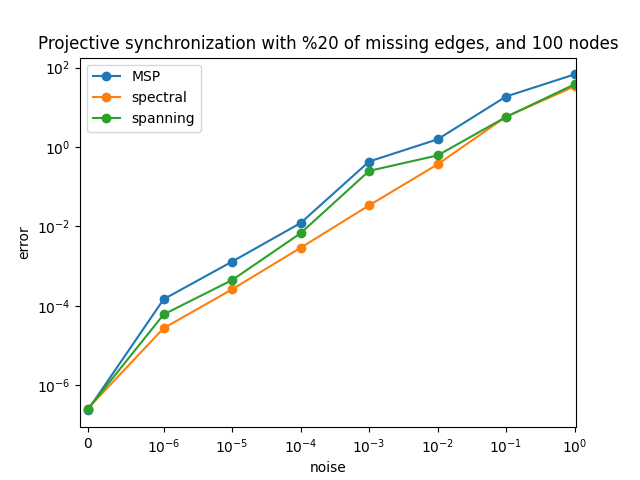
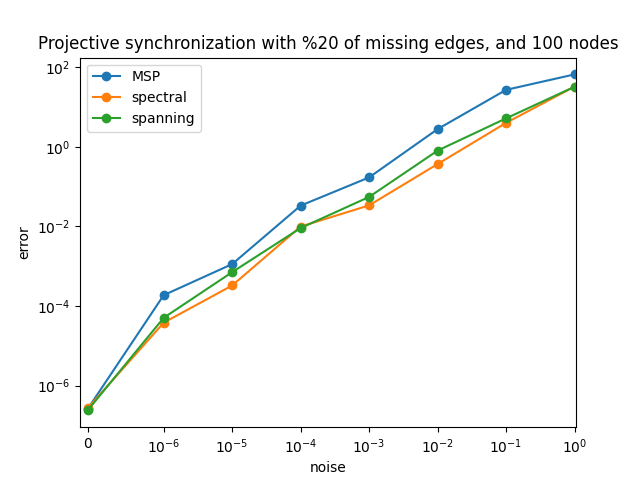
Updated tests, documented functions

Changed region(s): [[0.1562, 0.1562, 0.9062, 0.8125], [0.125, 0.8125, 0.1562, 0.875]]

diff --git a/synchronization/utils.py b/synchronization/utils.py
@@ -2,6 +2,15 @@ import numpy as np
 
 
 def scale_matrices(X: np.ndarray, d: int, ref: int):
+    """
+    Scale each matrices of the input block matrix by multiplying each of them by the inverse
+    of the matrix X[d*ref: d*(ref + 1), :]
+    :param X: the nd x d block matrix to be scaled, where the i-th block is the matrix X[d*i: d*(i + 1), :]
+    :param d: the dimension of matrices
+    :param ref: the index of the reference matrix
+    :return: the scaled block matrix
+    """
+
     ref_matrix_inv = np.linalg.inv(X[d*ref: d*(ref + 1), :])
     X_scaled = np.zeros(X.shape, dtype=X.dtype)
     n = int(X.shape[0] / d)
@@ -11,17 +20,34 @@ def scale_matrices(X: np.ndarray, d: int, ref: int):
 
 
 def normalize_matrices(X: np.ndarray):
+    """
+    Normalize each matrix of the input nd x d block matrix by dividing each block matrix w.r.t the sum of the elements
+    and, then, w.r.t. the norm of the vectorized form of the matrix
+    :param X: the block matrix to be normalized
+    :return: the normalized block matrix
+    """
+
     X_normalized = np.zeros(X.shape, dtype=X.dtype)
     d = X.shape[1]
     n = int(X.shape[0] / d)
     for i in range(n):
         x_vec = X[d*i: d*(i + 1), :].reshape((d ** 2, 1))
-        norm_factor = np.linalg.norm(x_vec) + x_vec.sum()
-        X_normalized[d*i: d*(i + 1), :] = X[d*i: d*(i + 1), :] / norm_factor
+        x_vec_sum = x_vec.sum()
+        X_normalized[d*i: d*(i + 1), :] = X[d*i: d*(i + 1), :] / x_vec_sum
+        norm = np.linalg.norm(x_vec / x_vec_sum)
+        X_normalized[d * i: d * (i + 1), :] = X[d * i: d * (i + 1), :] / norm
     return X_normalized
 
 
 def calculate_matrix_angle(X1: np.ndarray, X2: np.ndarray, d: int):
+    """
+    Calculates the angle between the vectorized form of the two input matrices
+    :param X1: a d x d matrix
+    :param X2: a d x d matrix
+    :param d: the dimension of the matrices
+    :return: the angle between the two matrices
+    """
+
     x1 = X1.reshape((d ** 2, 1))
     x2 = X2.reshape((d ** 2, 1))
     x1 = np.real(x1)
@@ -37,10 +63,27 @@ def calculate_matrix_angle(X1: np.ndarray, X2: np.ndarray, d: int):
 
 
 def calculate_matrix_distance(X1: np.ndarray, X2: np.ndarray, d: int):
+    """
+    Calculates the distance in terms of norm between the two input matrices
+    :param X1: a d x d matrix
+    :param X2: a d x d matrix
+    :param d: the dimension of the matrices
+    :return: the distance between the two matrices
+    """
+
     return np.linalg.norm(X1 - X2)
 
 
 def get_error(U: np.ndarray, X: np.ndarray, d: int, distance_type='angle'):
+    """
+    Calculates the distance, in terms of norm or angle, between the two input nd x d block matrices
+    :param U: a nd x d block matrix
+    :param X: a nd x d block matrix
+    :param d: the dimension of the blocks of the matrix
+    :param distance_type: the type of distance that will be used (angle or norm)
+    :return: the mean distance between the blocks of the two matrices
+    """
+
     n = int(U.shape[0] / d)
     err = 0
     distance_func = calculate_matrix_angle if distance_type == 'angle' else calculate_matrix_distance

diff --git a/synchronization/multi_source_propagation.py b/synchronization/multi_source_propagation.py
@@ -4,6 +4,14 @@ from synchronization.spanning_tree_synchronization import spanning_tree_sync
 
 
 def multi_source_propagation(Z: np.ndarray, A: np.ndarray):
+    """
+    Computes the solution to the projective synchronization problem using the Multi-Source Propagation
+    method, that averages the solution of the spanning tree approach from multiple reference nodes
+    :param Z: the 4n x 4n matrix containing the pairwise projective transformations between the nodes
+    :param A: the adjacency matrix of the graph
+    :return: the solution to the synchronization problem, contained in a 4n x d matrix,
+        and the maximum degree node used as reference node
+    """
     node_degrees = A.sum(axis=1)
     n = A.shape[0]
     d = int(Z.shape[0] / n)
@@ -12,6 +20,8 @@ def multi_source_propagation(Z: np.ndarray, A: np.ndarray):
     max_degree_node = roots[-1]
     solutions = np.empty([0, n * d, d])
     for root in roots:
+        # scale the spanning tree solution w.r.t the node with the highest degree
         sol = utils.scale_matrices(spanning_tree_sync(Z, A, root), d, max_degree_node)
+        # utils.normalize divide each matrix by the sum of the elements first and then by the norm
         solutions = np.concatenate([solutions, [utils.normalize_matrices(sol)]])
     return solutions.sum(axis=0) / 10, max_degree_node

diff --git a/synchronization/homography_synchronization.py b/synchronization/homography_synchronization.py
@@ -3,16 +3,24 @@ from synchronization import utils
 
 
 def homography_synch(Z: np.array, A: np.array) -> (np.ndarray, int):
+    """
+    Performs homography synchronization on the given data
+    :param Z: the 3n x 3n matrix containing the pairwise measurements
+    :param A: the adjacency matrix of the graph
+    :return: the solution of the problem, contained in a 3n x d matrix,
+        and the reference node (the node with the highest degree)
+    """
     n = A.shape[0]
 
-    iD = np.diag(1 / A.sum(axis=1))
+    iD = np.diag(1 / A.sum(axis=1))  # inverse of the degree matrix
     w, v = np.linalg.eig(np.kron(iD, np.eye(3)) @ Z)
     Q = v[:, np.argsort(w)[-3:]]  # top-3 eigenvectors
-    root = np.argmax(A.sum(axis=1))
+    root = np.argmax(A.sum(axis=1))  # the reference node is the one with the maximum degree
     Q = np.real(utils.scale_matrices(Q, 3, root))
 
     H = np.empty([0, 3])
     for i in range(n):
+        # make the determinant of the matrices equal to one
         det_qi = np.linalg.det(Q[3*i:3*(i+1), :])
         Q_i = Q[3*i:3*(i+1), :] / (np.sign(det_qi) * np.power(np.abs(det_qi), 1/3))
         H = np.concatenate([H, Q_i], axis=0)

diff --git a/synchronization/projective_synchronization_spectral.py b/synchronization/projective_synchronization_spectral.py
@@ -3,6 +3,17 @@ from synchronization import utils
 
 
 def projective_synch(Z: np.array, A: np.array, remove_imag=False, root=None):
+    """
+    Solves the projective synchronization problem using the spectral solution (extended to complex
+    numbers) approach
+    :param Z: the 4n x 4n matrix containing the pairwise projective transformations between the nodes
+    :param A: the adjacency matrix of the graph
+    :param remove_imag: if true the imaginary values are removed before scaling, otherwise a complex solution
+        is returned by the function
+    :param root: the reference node for the final scaling, if this is None, the node with the highest degree will
+        be computed and used as a reference
+    :return: the solution to the synchronization problem, contained in a 4n x d matrix, together with the used reference node
+    """
     iD = np.diag(1 / A.sum(axis=1))
     w, v = np.linalg.eig(np.kron(iD, np.eye(4)) @ Z)
     Q = v[:, np.argsort(w)[-4:]]  # top-4 eigenvectors

diff --git a/tests/multi_source_propagation.py b/tests/multi_source_propagation.py
@@ -75,7 +75,7 @@ def test_different_noise(n: int, miss_rate: float, num_repeat: int, outliers_per
 
 
 def test_outliers(n: int, miss_rate: float, num_repeat: int, noise: float):
-    outliers_percent = np.linspace(0, 0.2, 10)
+    outliers_percent = np.linspace(0, 0.8, 10)
     errors_spanning, errors_msp, errors_spectral = list(), list(), list()
     std_spanning, std_msp, std_spectral = list(), list(), list()
     for outliers in outliers_percent:
@@ -108,6 +108,6 @@ def test_outliers(n: int, miss_rate: float, num_repeat: int, noise: float):
 
 
 if __name__ == '__main__':
-    test_different_noise(100, 0.8, 20)
-    test_outliers(100, 0.5, 20, 1e-4)
-    test_outliers(100, 0.8, 30, 1e-4)
+    #test_different_noise(100, 0.8, 20)
+    #test_outliers(100, 0.5, 20, 1e-4)
+    test_outliers(100, 0.2, 30, 1e-4)

diff --git a/synchronization/spanning_tree_synchronization.py b/synchronization/spanning_tree_synchronization.py
@@ -4,6 +4,14 @@ import numpy as np
 
 
 def spanning_tree_sync(Z: np.ndarray, A: np.ndarray, root: int):
+    """
+    Computes the solution to the general synchronization problem in GL(d) (homography synchronization for
+    d = 3, projective synchronization for d = 4) using a spanning tree approach
+    :param Z: the dn x dn matrix containing the pairwise measurements between the nodes
+    :param A: the adjacency matrix of the graph
+    :param root: the nodes that will be used as the root of the spanning tree
+    :return: the solution to the synchronization problem, contained in a dn x d matrix
+    """
     n = A.shape[0]
     d = int(Z.shape[0] / n)
     sparse_A = csr_matrix(A)
